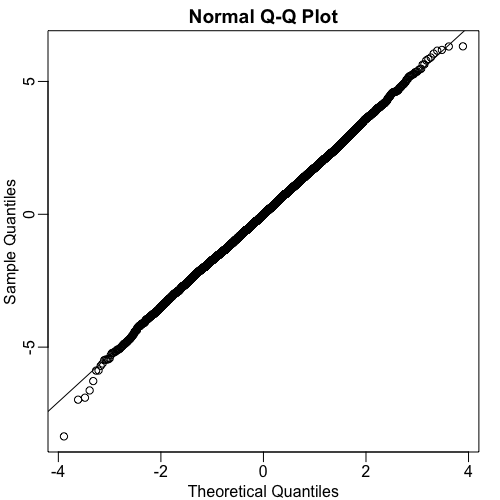
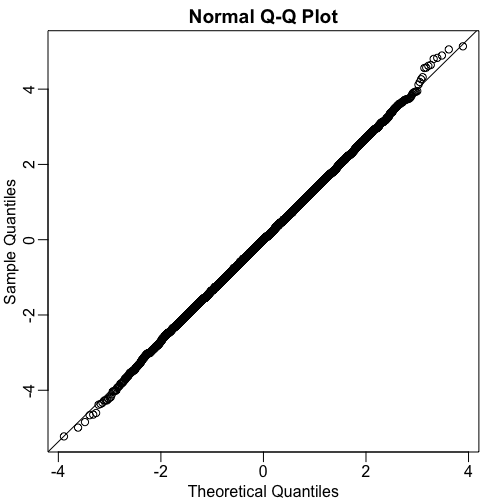
Add lesson 08-T-test.md and related images

diff --git a/week-2/classes/08-T-test.md b/week-2/classes/08-T-test.md
@@ -1,0 +1,157 @@
+---
+layout: page
+title: CLT in Practice
+author: "Leonardo Genero - HarvardX PH525.1x: Statistics and R"
+---
+
+# T-test
+
+In this video, we explore how the Central Limit Theorem (CLT) is applied with t-statistics to obtain p-values and, later, confidence intervals. We continue with our mouse weight example, where we previously calculated the difference in mean weights between the high-fat diet and control groups[^1].
+
+[^1]: Actually, I think that the lesson where they did that was not included in this online course.
+
+NB: When not finding the origin of some variables in the code snippets refer to the code at the end of the page.
+
+## Constructing the T-statistic
+
+To work with t-statistics, we first need to estimate the standard error of the observed difference in means. This is done by calculating the square root of the sum of the variances of each sample divided by their respective sample sizes. Specifically, for our two groups (e.g., treatment and control), the estimated standard error is calculated as:
+
+```math
+\sqrt{(\text{var(treatment)} / N) + (\text{var(control)} / N)}
+```
+
+where $\text{var()}$ is the sample variance and $N$ is the sample size for each group.
+
+```R
+se <- sqrt(
+  var(treatment)/N+
+    var(control)/N )
+```
+
+Once we have this estimated standard error, we can form the **t-statistic** by dividing the observed difference in means by its estimated standard deviation (i.e., the standard error):
+
+```math
+\text{t-statistic} = \text{observed difference} / \text{estimated standard error}
+```
+
+```R
+tstat <- obs / se
+```
+
+## Obtaining P-values with the Normal Approximation
+
+A powerful aspect of the Central Limit Theorem is that if we assume the normal approximation holds for the null distribution (the distribution of the t-statistic if there were no true difference between groups), we don't need access to the entire population data. This is crucial for realistic situations where population data is unavailable.
+
+The CLT tells us that the null distribution of the t-statistic is approximately a standard normal distribution, meaning it has a mean of $0$ and a variance of $1$. With this knowledge, we can compute p-values using standard normal probabilities.
+
+The `pnorm()` function in R returns the proportion of normally distributed data (with mean $0$ and standard deviation $1$) that is less than a given value. To find the p-value for an observed t-statistic in a two-tailed test (which checks for differences in either direction), we calculate the probability of observing a value more extreme than our t-statistic in one tail and then multiply it by $2$. This gives us an estimate of the p-value using only our sample data.
+
+```R
+2* (1 - pnorm(tstat) )
+```
+
+## Assessing the Quality of the Approximation
+
+We can assess the quality of this normal approximation by using our population data (which we have for illustration, but not in real-world scenarios). We can simulate the null distribution of the t-statistic by dividing the null differences (from our previous simulations) by the estimated standard error.
+
+```R
+n <- 10000
+nulls <- vector("numeric", n)
+for(i in 1:n){
+  control <- sample( population, N)
+  treatment <- sample( population, N)
+  se <- sqrt(
+    var(treatment)/N+
+      var(control)/N )
+  nulls[i] <- (mean(treatment)-mean(control))/se
+}
+```
+
+After generating many such simulated t-statistics under the null hypothesis, we can create a Q-Q plot comparing this simulated null distribution to a theoretical normal distribution. If the CLT provides a good approximation, the points on the Q-Q plot should fall almost perfectly along the line with intercept $0$ and slope $1$. This indicates that our obtained p-value is a good approximation of the true p-value.
+
+```R
+qqnorm(nulls)
+abline(0,1)
+```
+
+![](../classes/images/qqplot-population-vs-estimate-sample-N.png)
+
+## The Impact of Sample Size
+
+It's important to understand the role of sample size. If we repeat our simulation with a very small sample size, for example, $N=3$ instead of $N=12$, the normal approximation for the null distribution of the t-statistic becomes much less accurate. 
+
+```R
+n <- 10000
+nulls <- vector("numeric", n)
+for(i in 1:n){
+  control <- sample( population, 3)
+  treatment <- sample( population, 3)
+  se <- sqrt(
+    var(treatment)/3+
+      var(control)/3 )
+  nulls[i] <- (mean(treatment)-mean(control))/se
+}
+```
+
+When we create a Q-Q plot for $N=3$, the points deviate significantly from the $0, 1$ line, especially in the tails, indicating that the normal approximation is not suitable for such a small sample in this dataset.
+
+![](../classes/images/qqplot-population-vs-estimate-sample-3.png)
+
+This simulation highlights why larger sample sizes are generally needed for the normal approximation to be valid. For cases with small sample sizes where the original data can be assumed to follow a normal distribution, alternative approximations, such as the t-distribution (which we will discuss), might be more appropriate.
+
+In subsequent videos and throughout the course, we will continue to build on these concepts, showing how the Central Limit Theorem is used to obtain p-values, construct confidence intervals, and perform statistical inference in general.
+
+#### `code.R`
+
+Script file from this lesson.
+
+```R
+library(downloader)
+url <- "https://raw.githubusercontent.com/genomicsclass/dagdata/refs/heads/master/inst/extdata/femaleMiceWeights.csv"
+filename <- basename(url)
+download(url, destfile=filename)
+dat <- na.omit( read.csv(filename))
+
+library(dplyr)
+
+control <- filter(dat, Diet=="chow") %>%
+  select(Bodyweight) %>% unlist
+
+treatment <- filter(dat, Diet=="hf") %>%
+  select(Bodyweight) %>% unlist
+
+N <- length(treatment)
+obs <- mean(treatment) - mean(control)
+
+se <- sqrt(
+  var(treatment)/N+
+    var(control)/N )
+tstat <- obs / se
+
+2* (1 - pnorm(tstat) )
+
+#-------------------------------------------------------
+
+library(downloader)
+url <- "https://raw.githubusercontent.com/genomicsclass/dagdata/refs/heads/master/inst/extdata/femaleControlsPopulation.csv"
+filename <- basename(url)
+download(url, destfile=filename)
+population <- na.omit( read.csv(filename) ) %>% unlist
+
+n <- 10000
+nulls <- vector("numeric", n)
+for(i in 1:n){
+  control <- sample( population, 3)
+  treatment <- sample( population, 3)
+  se <- sqrt(
+    var(treatment)/3+
+      var(control)/3 )
+  nulls[i] <- (mean(treatment)-mean(control))/se
+}
+
+library(rafalib)
+mypar()
+
+qqnorm(nulls)
+abline(0,1)
+```

diff --git a/week-2/classes/07-CLT-in-Practice.md b/week-2/classes/07-CLT-in-Practice.md
@@ -47,25 +47,21 @@ Script file from this lesson.
 ## script.
 
 library(downloader)
-url <- "https://raw.githubusercontent.com/genomicsclass/dagdata/master/inst/extdata/mice_pheno.csv"
+url <- "https://raw.githubusercontent.com/genomicsclass/dagdata/refs/heads/master/inst/extdata/femaleControlsPopulation.csv"
 filename <- basename(url)
 download(url, destfile=filename)
-dat <- na.omit( read.csv(filename) )
-
-population <- filter(dat, Sex == "F") %>%
-  select(Bodyweight) %>% 
-  unlist
+population <- na.omit( read.csv(filename) )
+population <- unlist(population)
 
 library(dplyr)
-set.seed(1)
 n <- 10000
 nulls <- vector("numeric", n)
 for(i in 1:n){
-  control <- sample( population, 12)
-  treatment <- sample( population, 12)
+  control <- sample( population, 12) ## Or 3
+  treatment <- sample( population, 12) ## Or 3
   nulls[i] <- mean(treatment)-mean(control)
 }
-## mean( abs( nulls ) > obs)
+
 library(rafalib)
 mypar()
 
